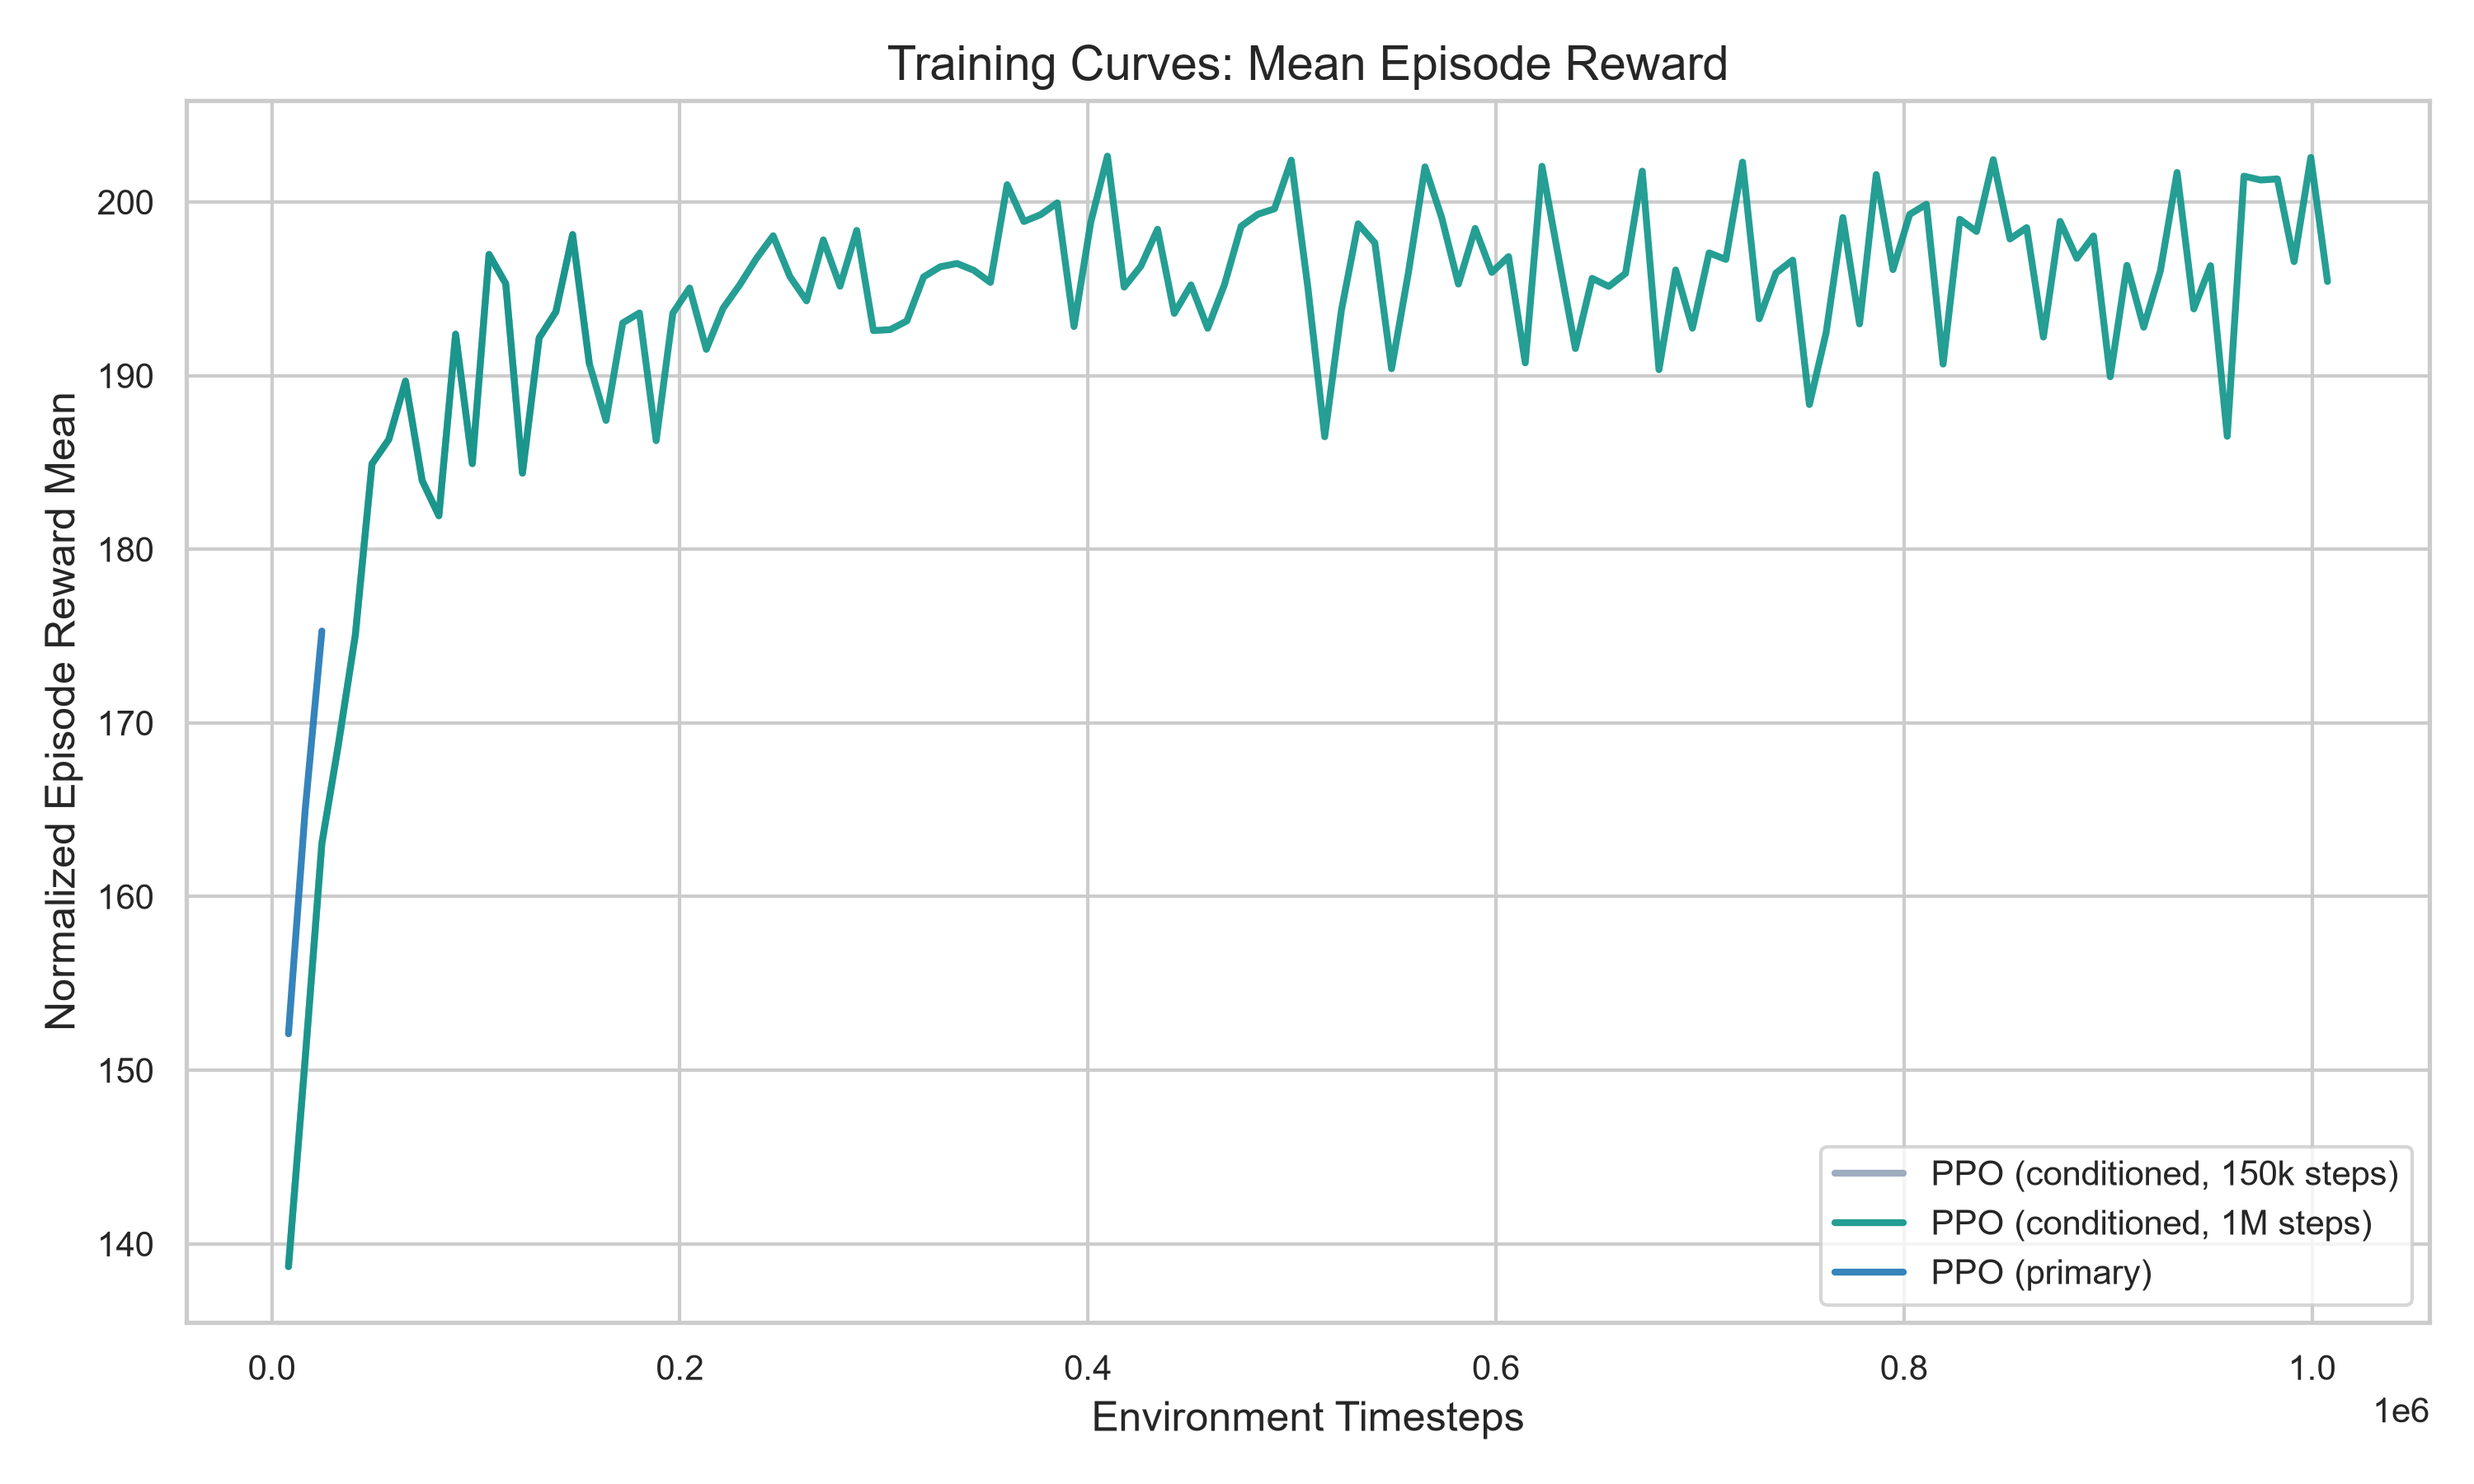
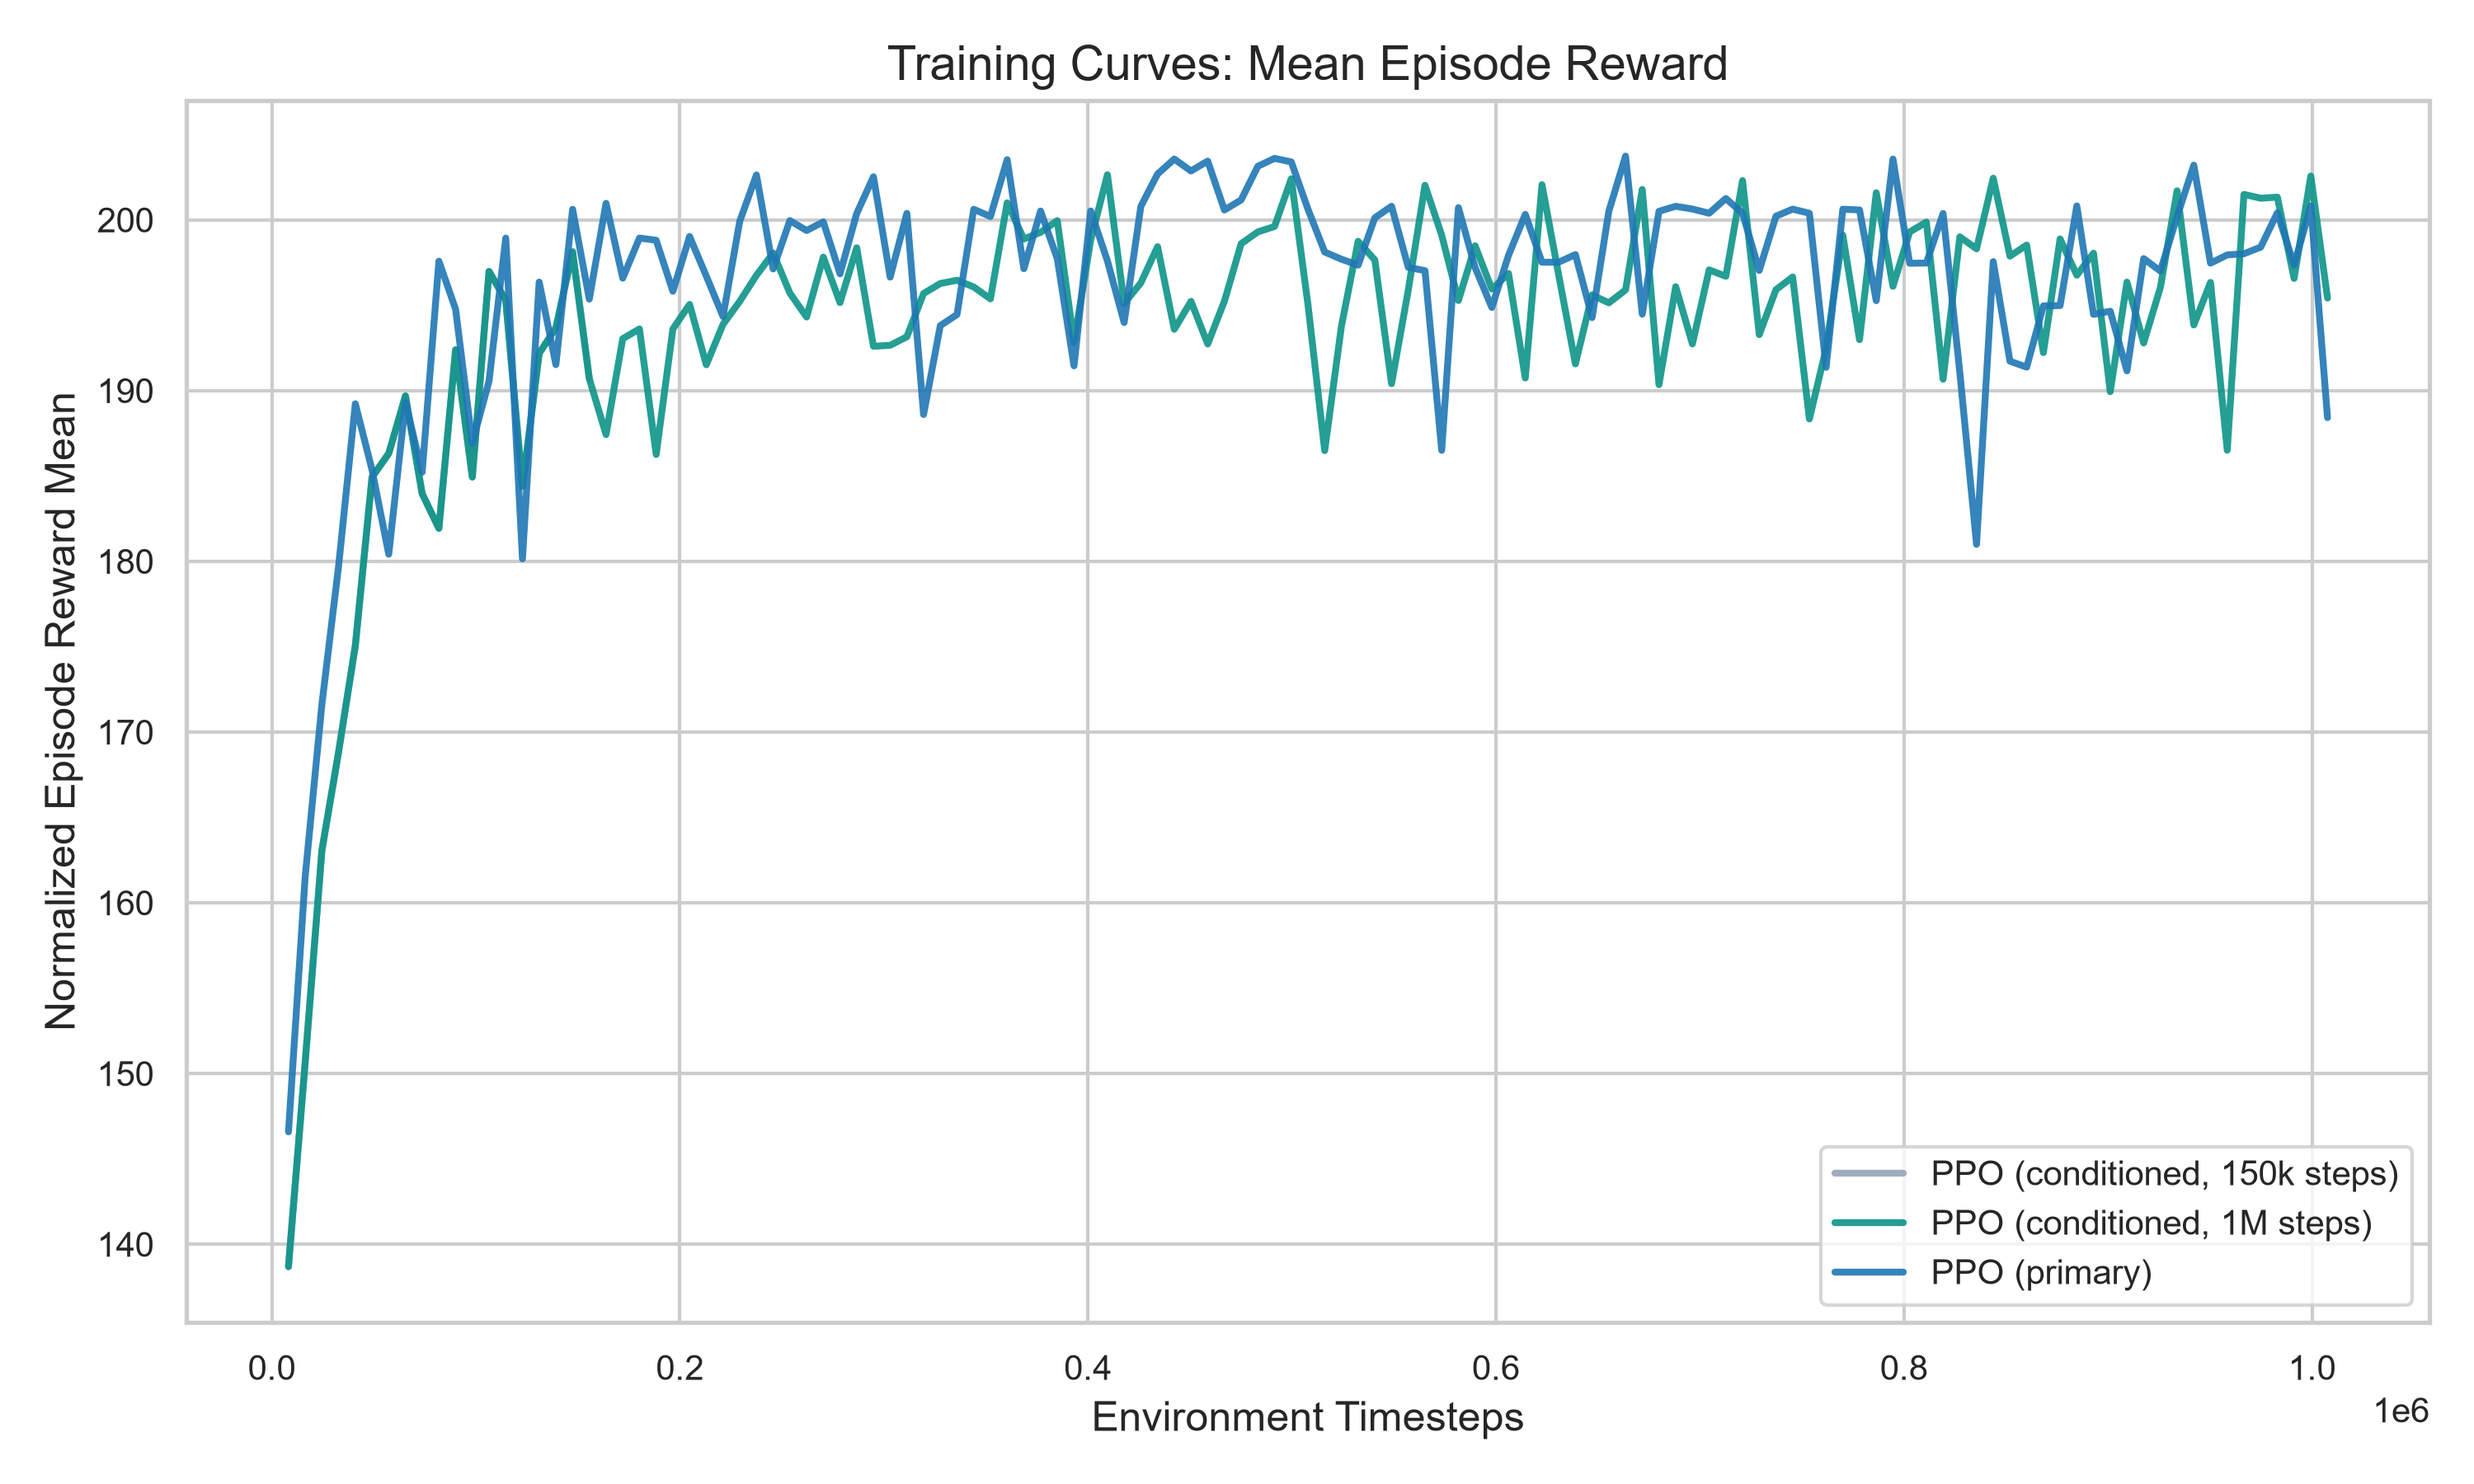
chore: restore the primary convergence curve and finish the cleanup
The TensorBoard cleanup kept the highest numbered run of each name, which
for the primary policy was a 20,000 step benchmark rather than the
1,000,000 step training run, so the convergence curve was lost. The
training is deterministic given the seed, so it was run again and checked
against the policy the results came from: identical rewards, identical
material removal rates and identical actions over 20 scenarios, so every
reported number still holds.

- The primary policy now writes to its own TensorBoard name, so a short
  run cannot displace it again.
- The training curve plot takes the newest run of each name, and the
  figure shows the three policies that matter.
- The result summary carries both conditioned frontiers, the 1,000,000 step
  one and the budget matched one.
- The unused comparison bar helper and two unused imports are gone, the
  packages that are not really packages have __init__.py, and the feed is
  labelled per revolution everywhere it appears.

diff --git a/agent/summarize_results.py b/agent/summarize_results.py
@@ -122,23 +122,32 @@ def baseline_table():
     return "\n".join(lines)
 
 def conditioned_table():
-    """The frontier of the conditioned policy."""
-    path = PROJECT_ROOT / "results" / "conditioned" / "conditioned_frontier.csv"
-    if not path.exists():
-        return None
+    """The frontier of the conditioned policy, at both training budgets."""
+    out_dir = PROJECT_ROOT / "results" / "conditioned"
 
-    df = pd.read_csv(path).sort_values('w2')
-    lines = [
-        "| w2 (energy weight) | MRR (mm3/min) | Energy per part (kJ) | Cycle time (s) | Spindle (RPM) | Feed (mm/r) | Ra violation rate |",
-        "| ---: | ---: | ---: | ---: | ---: | ---: | ---: |",
-    ]
-    for _, r in df.iterrows():
-        lines.append(
-            f"| {r['w2']:.1f} | {r['MRR_mean']:.1f} | {r['Energy_mean']:.1f} | "
-            f"{r['Time_mean']:.1f} | {r['n_mean']:.0f} | {r['f_r_mean']:.3f} | "
-            f"{r['Ra_viol_rate']*100:.1f}% |"
-        )
-    return "\n".join(lines)
+    blocks = []
+    for filename, title in (("conditioned_frontier.csv",
+                             "One conditioned policy, 1,000,000 steps"),
+                            ("conditioned_frontier_150k.csv",
+                             "One conditioned policy, 150,000 steps, the same budget as the sweep")):
+        path = out_dir / filename
+        if not path.exists():
+            continue
+        df = pd.read_csv(path).sort_values('w2')
+        lines = [
+            f"### {title}\n",
+            "| w2 (energy weight) | MRR (mm3/min) | Energy per part (kJ) | Cycle time (s) | Spindle (RPM) | Feed (mm/r) | Ra violation rate |",
+            "| ---: | ---: | ---: | ---: | ---: | ---: | ---: |",
+        ]
+        for _, r in df.iterrows():
+            lines.append(
+                f"| {r['w2']:.1f} | {r['MRR_mean']:.1f} | {r['Energy_mean']:.1f} | "
+                f"{r['Time_mean']:.1f} | {r['n_mean']:.0f} | {r['f_r_mean']:.3f} | "
+                f"{r['Ra_viol_rate']*100:.1f}% |"
+            )
+        blocks.append("\n".join(lines))
+
+    return "\n\n".join(blocks) if blocks else None
 
 
 def transfer_table():
@@ -188,7 +197,8 @@ def main():
     cond = conditioned_table()
     if cond:
         parts.append("## Conditioned policy, weight swept at runtime\n")
-        parts.append("Artifact: `results/conditioned/conditioned_frontier.csv`\n")
+        parts.append("Artifacts: `results/conditioned/conditioned_frontier.csv` and "
+                     "`results/conditioned/conditioned_frontier_150k.csv`\n")
         parts.append(cond + "\n")
 
     bl = baseline_table()

diff --git a/viz/plotting_utils.py b/viz/plotting_utils.py
@@ -128,48 +128,3 @@ def plot_failure_landscape(df, x_col, y_col, title, x_label=None, y_label=None,
         plt.close()
     else:
         plt.show()
-
-
-def plot_comparison_bar(df_stats, metrics, algorithms, filename=None):
-    """
-    Comparison bar chart with 95% CI error bars.
-    df_stats should have mean and ci_lower/ci_upper for each metric/algorithm.
-    """
-    n_metrics = len(metrics)
-    fig, axes = plt.subplots(1, n_metrics, figsize=(5 * n_metrics, 6))
-    if n_metrics == 1: axes = [axes]
-
-    for i, metric in enumerate(metrics):
-        ax = axes[i]
-        subset = df_stats[df_stats['metric'] == metric]
-
-        # Calculate error bars as absolute offsets from the mean
-        yerr = [
-            subset['mean'] - subset['ci_lower'],
-            subset['ci_upper'] - subset['mean']
-        ]
-
-        sns.barplot(
-            data=subset, x='algorithm', y='mean', ax=ax,
-            palette="viridis", alpha=0.8
-        )
-
-        # Add manual error bars for 95% CI
-        ax.errorbar(
-            x=range(len(subset)), y=subset['mean'],
-            yerr=yerr, fmt='none', c='black', capsize=5
-        )
-
-        ax.set_title(f"{metric} Comparison", fontweight='bold')
-        ax.set_ylabel(metric)
-        ax.set_xlabel("Algorithm")
-        plt.setp(ax.get_xticklabels(), rotation=45)
-
-    plt.tight_layout()
-    if filename:
-        plt.savefig(filename)
-        print(f"Saved plot to {filename}")
-        plt.close()
-    else:
-        plt.show()
-

diff --git a/agent/train_rl.py b/agent/train_rl.py
@@ -16,7 +16,6 @@ from stable_baselines3 import PPO
 from stable_baselines3.common.env_util import make_vec_env
 from stable_baselines3.common.vec_env import VecNormalize
 from stable_baselines3.common.callbacks import BaseCallback
-import gymnasium as gym
 
 # Ensure project root is importable
 PROJECT_ROOT = Path(__file__).resolve().parents[1]

diff --git a/config/physics_constants.py b/config/physics_constants.py
@@ -68,7 +68,7 @@ REWARD_WEIGHTS = {
 # term, and the energy weight stops having a visible effect.
 REFERENCE_CUTTING_CONDITION = {
     'n': 5000,        # Spindle speed [RPM]
-    'f_r': 0.2,       # Feed per tooth [mm/r]
+    'f_r': 0.2,       # Feed per revolution [mm/r]
     'a_p': 2.5,       # Depth of cut [mm]
 }
 

diff --git a/env/__init__.py b/env/__init__.py
@@ -1,7 +1,5 @@
-import gymnasium as gym
 from gymnasium.envs.registration import register
 from config.physics_constants import (
-    BATCH_PARAMETERS,
     ENGINEERING_CONSTRAINTS,
     WORKPIECE_PARAMETERS,
     MACHINE_CONSTRAINTS

diff --git a/results/RESULTS.md b/results/RESULTS.md
@@ -40,7 +40,9 @@ Artifact: `results/ablation/ablation_summary.csv`
 
 ## Conditioned policy, weight swept at runtime
 
-Artifact: `results/conditioned/conditioned_frontier.csv`
+Artifacts: `results/conditioned/conditioned_frontier.csv` and `results/conditioned/conditioned_frontier_150k.csv`
+
+### One conditioned policy, 1,000,000 steps
 
 | w2 (energy weight) | MRR (mm3/min) | Energy per part (kJ) | Cycle time (s) | Spindle (RPM) | Feed (mm/r) | Ra violation rate |
 | ---: | ---: | ---: | ---: | ---: | ---: | ---: |
@@ -51,6 +53,18 @@ Artifact: `results/conditioned/conditioned_frontier.csv`
 | 0.6 | 1225.0 | 55.1 | 17.9 | 7423 | 0.244 | 38.0% |
 | 0.8 | 1206.0 | 55.3 | 18.2 | 7399 | 0.242 | 37.0% |
 | 1.0 | 1187.7 | 55.5 | 18.5 | 7362 | 0.239 | 37.0% |
+
+### One conditioned policy, 150,000 steps, the same budget as the sweep
+
+| w2 (energy weight) | MRR (mm3/min) | Energy per part (kJ) | Cycle time (s) | Spindle (RPM) | Feed (mm/r) | Ra violation rate |
+| ---: | ---: | ---: | ---: | ---: | ---: | ---: |
+| 0.0 | 1017.7 | 64.1 | 34.3 | 7442 | 0.192 | 32.0% |
+| 0.2 | 1034.3 | 62.3 | 30.7 | 7504 | 0.195 | 36.0% |
+| 0.4 | 1052.2 | 60.3 | 26.9 | 7518 | 0.200 | 36.0% |
+| 0.5 | 1058.8 | 59.6 | 25.5 | 7522 | 0.202 | 34.0% |
+| 0.6 | 1064.7 | 59.0 | 24.3 | 7521 | 0.204 | 34.0% |
+| 0.8 | 1074.1 | 58.2 | 22.6 | 7514 | 0.208 | 33.0% |
+| 1.0 | 1079.4 | 57.6 | 21.4 | 7503 | 0.211 | 32.0% |
 
 ## Classical baselines
 

diff --git a/README.md b/README.md
@@ -5,7 +5,7 @@
 ## Overview
 This project applies Deep Reinforcement Learning (DRL) to address the dynamic cutting parameter optimization problem in CNC face milling operations. Utilizing a high-fidelity Python-based Digital Twin grounded in empirical manufacturing physics, an autonomous agent dynamically optimizes cutting parameters across multi-pass machining:
 - **Spindle Speed ($n$):** 2000 - 8000 RPM
-- **Feed per Tooth ($f_r$):** 0.05 - 0.35 mm/tooth
+- **Feed per Revolution ($f_r$):** 0.05 - 0.35 mm/r
 - **Axial Depth of Cut ($a_p$):** 0.1 - 2.5 mm
 
 The optimization framework addresses a constrained multi-objective problem:

diff --git a/docs/LITERATURE_COMPARISON.md b/docs/LITERATURE_COMPARISON.md
@@ -53,7 +53,7 @@ this repository, from `config/physics_constants.py`.
 | Quantity | Mo et al. (2025) | This work |
 | :--- | :--- | :--- |
 | Cutting speed | 25 to 200 m/min | 314 to 1257 m/min at D = 50 mm, from 2000 to 8000 RPM |
-| Feed per tooth | 0.05 to 0.3 mm/r | 0.05 to 0.35 mm/r |
+| Feed per revolution | 0.05 to 0.3 mm/r | 0.05 to 0.35 mm/r |
 | Depth of cut | 0.05 to 3 mm | 0.1 to 2.5 mm |
 | Machining allowance | 3, 5, 6 or 10 mm | 5 mm nominal, 2 to 15 mm across the sweep |
 | Surface roughness limit | Ra 3.2 um roughing, Ra 1.6 um finishing | Ra 1.6 um, 1.36 um with the 0.85 safety factor |

diff --git a/docs/ENVIRONMENT_SPEC.md b/docs/ENVIRONMENT_SPEC.md
@@ -51,7 +51,7 @@ envelope and clipped before use:
 | Variable | Symbol | Range | Unit |
 | :--- | :--- | :--- | :--- |
 | Spindle speed | $n$ | 2000 to 8000 | RPM |
-| Feed per tooth | $f_r$ | 0.05 to 0.35 | mm/r |
+| Feed per revolution | $f_r$ | 0.05 to 0.35 | mm/r |
 | Depth of cut | $a_p$ | 0.1 to 2.5 | mm |
 
 The depth of cut is additionally capped at the stock that is left, so a pass
